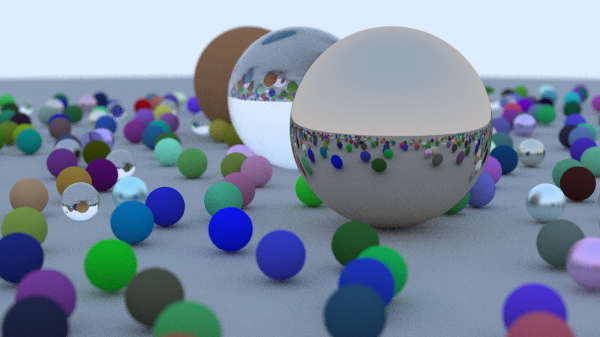
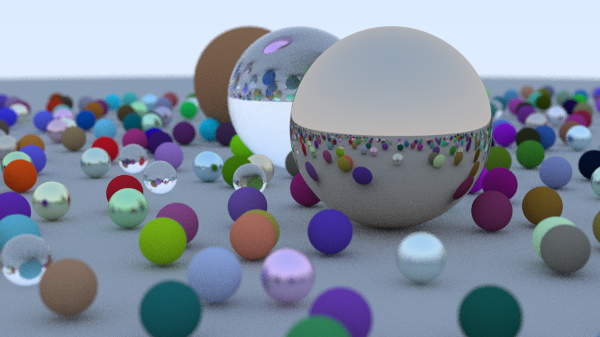
change main loop to parallel and run

diff --git a/src/bin/main.rs b/src/bin/main.rs
@@ -3,9 +3,9 @@ use std::fs::File;
 use std::io::BufWriter;
 use std::path::Path;
 
-use indicatif::ProgressBar;
 use png;
 use rand::prelude::*;
+use rayon::prelude::*;
 
 use tracers::sphere::Sphere;
 use tracers::vec3::{random_unit_vector, unit_vector, Color, Point3, Vec3};
@@ -145,23 +145,35 @@ fn main() {
         dist_to_focus,
     );
 
-    let bar = ProgressBar::new((width * height) as u64);
+    // let bar = ProgressBar::new((width * height) as u64);
 
     let mut data = Vec::new();
-    for j in (0..height).rev() {
-        for i in 0..width {
-            let mut pixel_color = Color::new(0.0, 0.0, 0.0);
-            for _ in 0..samples_per_pixel {
-                let u = (i as f64 + rng.gen::<f64>()) / (width - 1) as f64;
-                let v = (j as f64 + rng.gen::<f64>()) / (height - 1) as f64;
-                let r = cam.get_ray(u, v);
-                pixel_color += ray_color(&r, &world, max_depth);
-            }
-            write_color(&mut data, pixel_color, samples_per_pixel);
-            bar.inc(1);
-        }
+    let image = (0..height as usize)
+        .into_par_iter()
+        .rev()
+        .flat_map(|j| {
+            (0..width)
+                .into_par_iter()
+                .flat_map(|i| {
+                    let mut rng = thread_rng();
+
+                    let mut pixel_color = Color::new(0.0, 0.0, 0.0);
+                    for _s in 0..samples_per_pixel {
+                        let u = (i as f64 + rng.gen::<f64>()) / (width - 1) as f64;
+                        let v = (j as f64 + rng.gen::<f64>()) / (height as usize - 1) as f64;
+                        let r = cam.get_ray(u, v);
+                        pixel_color += ray_color(&r, &world, max_depth);
+                    }
+                    write_color(pixel_color, samples_per_pixel)
+                })
+                .collect::<Vec<u8>>()
+        })
+        .collect::<Vec<u8>>();
+
+    for col in image.chunks(4) {
+        let col_vec = col.to_vec();
+        data.extend_from_slice(col_vec.as_slice());
     }
-    bar.finish();
 
     let path = Path::new(r"./images/chapter-13.png");
     let file = File::create(path).unwrap();
